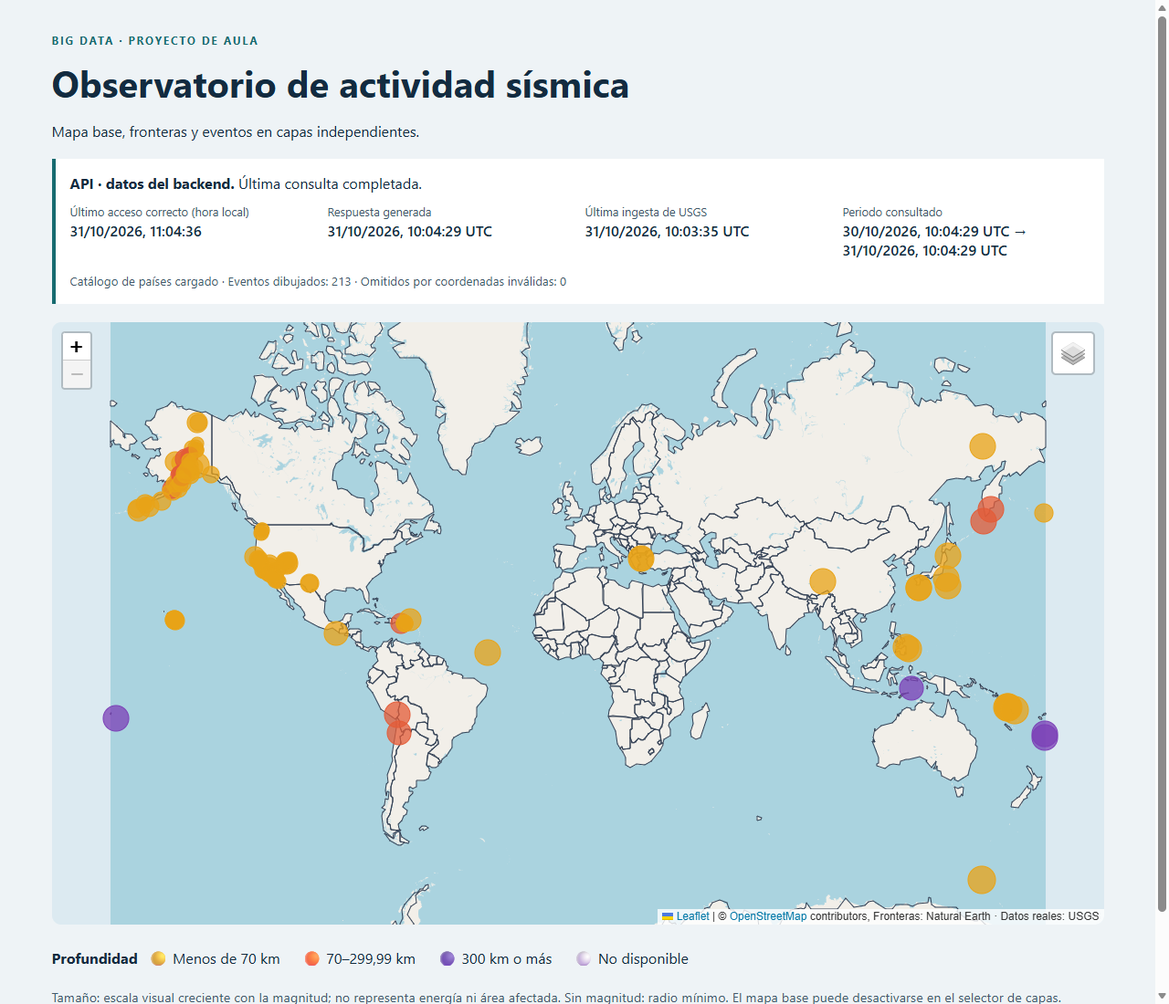
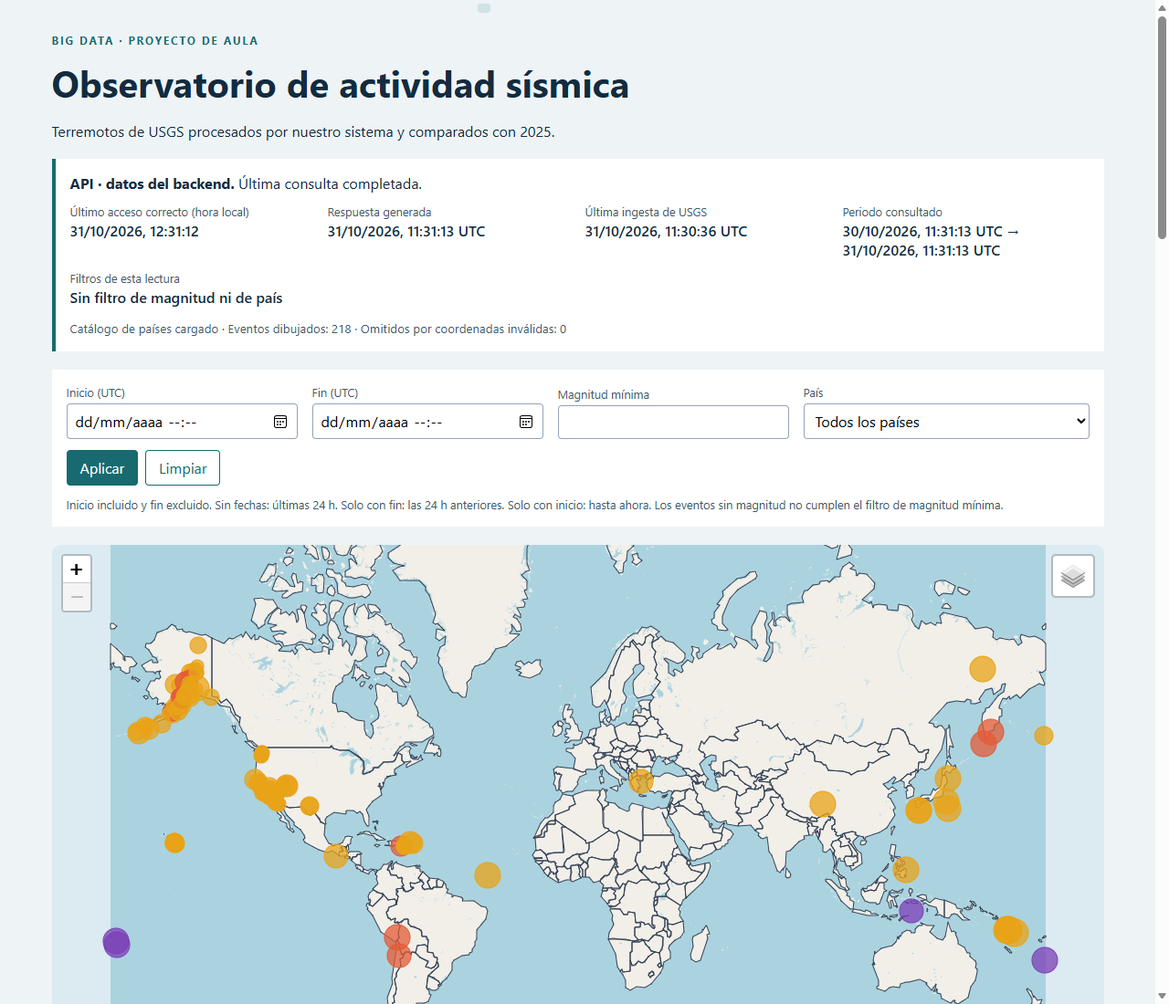
Fase 9, bloque 6: cobertura desde la API, revisión final y documentación

diff --git a/frontend/src/app/estadisticas/comparacion-historica.component.ts b/frontend/src/app/estadisticas/comparacion-historica.component.ts
@@ -5,9 +5,7 @@ import type { ComparacionHistorica, Periodo } from '../api.service';
 
 const INICIO_2025 = Date.UTC(2025, 0, 1);
 const FIN_2025 = Date.UTC(2026, 0, 1);
-const HORA_MS = 3_600_000;
-const MARGEN_FEED_MS = 25 * HORA_MS;                    // el feed cubre 24 h; +1 h para no avisar en la consulta por defecto
-const BASE_MINIMA = 1;                                  // criterio propio: esperar menos de 1 terremoto no da un % útil
+const BASE_MINIMA = 1;                                 // criterio propio: esperar menos de 1 terremoto no da un % útil
 
 // Número en español. ND si falta.
 const cifra = (valor: number | null, decimales = 0): string =>
@@ -38,8 +36,21 @@ export class ComparacionHistoricaComponent {
 
   // El periodo cae dentro de 2025: se compara con un año que ya lo contiene.
   readonly solapa2025 = computed(() => this.inicio() < FIN_2025 && this.fin() > INICIO_2025);
-  // Empieza antes de lo que cubre el feed: el recuento puede estar incompleto por falta de datos, no de terremotos.
-  readonly fueraDeCobertura = computed(() => !this.solapa2025() && this.inicio() < this.generated() - MARGEN_FEED_MS);
+  // Fecha desde la que hay datos del feed, según la API. null = aún no hay ninguna ingesta correcta.
+  private readonly cobertura = computed(() => {
+    const desde = this.datos().cobertura_feed_desde;
+    return desde === null ? null : new Date(desde).getTime();
+  });
+  // La API dice que el periodo no está cubierto y es porque empieza antes de los datos del feed
+  // (periodo_cubierto también es false si solo termina en el futuro: de eso se avisa aparte).
+  readonly fueraDeCobertura = computed(() => {
+    const desde = this.cobertura();
+    return !this.datos().periodo_cubierto && (desde === null || this.inicio() < desde);
+  });
+  readonly coberturaTexto = computed(() => {
+    const desde = this.cobertura();
+    return desde === null ? 'ND' : `${new Date(desde).toLocaleString('es-ES', { timeZone: 'UTC' })} UTC`;
+  });
   // Termina en el futuro: el esperado incluye días que aún no han ocurrido.
   readonly periodoFuturo = computed(() => this.fin() > this.generated());
   // Hay porcentaje, pero sobre una base tan pequeña que un solo terremoto lo cambia por completo.

diff --git a/frontend/src/app/app.component.html b/frontend/src/app/app.component.html
@@ -1,12 +1,12 @@
 <main>
-  <header><p class="eyebrow">BIG DATA · PROYECTO DE AULA</p><h1>Observatorio de actividad sísmica</h1><p>Mapa base, fronteras y eventos en capas independientes.</p></header>
+  <header><p class="eyebrow">BIG DATA · PROYECTO DE AULA</p><h1>Observatorio de actividad sísmica</h1><p>Terremotos de USGS procesados por nuestro sistema y comparados con 2025.</p></header>
   <app-estado-sistema [estado]="estado()" />
   <!-- Los filtros los resuelve la API, así que en modo demo no se muestran. -->
   @if (estado().modo === 'api') {
     <app-filtros [paises]="paises()" [aplicados]="filtros()" [cargando]="cargando()" (aplicar)="aplicarFiltros($event)" />
   }
   <div class="map" leaflet [leafletOptions]="options" (leafletMapReady)="onMapReady($event)" aria-label="Mapa interactivo de terremotos"></div>
-  <footer><strong>Profundidad</strong><span>🟡 Menos de 70 km</span><span>🟠 70–299,99 km</span><span>🟣 300 km o más</span><span>⚪ No disponible</span><p>Tamaño: escala visual creciente con la magnitud; no representa energía ni área afectada. Sin magnitud: radio mínimo. El mapa base puede desactivarse en el selector de capas.</p><p>Base proporcionada: añade filtros, gráficos, tabla accesible y conclusiones para completar el proyecto.</p></footer>
+  <footer><strong>Profundidad</strong><span>🟡 Menos de 70 km</span><span>🟠 70–299,99 km</span><span>🟣 300 km o más</span><span>⚪ No disponible</span><p>Tamaño: escala visual creciente con la magnitud; no representa energía ni área afectada. Sin magnitud: radio mínimo. El mapa base puede desactivarse en el selector de capas.</p></footer>
   <!-- Las estadísticas las calcula la API: el modo demo no las tiene. -->
   @if (estado().modo === 'api') {
     <app-estadisticas [datos]="estadisticas()" [antiguas]="estadisticasAntiguas()" [filtrosTexto]="filtrosEstadisticas()" [truncado]="estado().truncated" [cargando]="cargando()" />

diff --git a/frontend/src/app/filtros/filtros.component.css b/frontend/src/app/filtros/filtros.component.css
@@ -1,8 +1,9 @@
 /* Campos en fila, que bajan a la línea siguiente si no caben. */
 .filtros { display: flex; flex-wrap: wrap; gap: 12px 16px; align-items: flex-end; padding: 16px; background: white; margin: 0 0 20px; }
-.campo { display: flex; flex-direction: column; gap: 4px; flex: 1 1 170px; }
+/* min-width 0 y width 100 %: el desplegable se ajusta a la columna, no al nombre de país más largo. */
+.campo { display: flex; flex-direction: column; gap: 4px; flex: 1 1 170px; min-width: 0; }
 label { font-size: .8rem; color: #42596b; }
-input, select { padding: 7px 8px; border: 1px solid #94a3b8; border-radius: 4px; font: inherit; background: white; min-width: 0; }
+input, select { width: 100%; padding: 7px 8px; border: 1px solid #94a3b8; border-radius: 4px; font: inherit; background: white; min-width: 0; }
 
 .botones { display: flex; align-items: center; gap: 8px; }
 button { padding: 8px 14px; border: 1px solid #176b70; border-radius: 4px; background: #176b70; color: white; font: inherit; cursor: pointer; }

diff --git a/frontend/src/app/estadisticas/comparacion-historica.component.html b/frontend/src/app/estadisticas/comparacion-historica.component.html
@@ -6,7 +6,7 @@
     <p class="aviso"><strong>Periodo dentro de 2025:</strong> se compara con un año que ya lo incluye. Sirve para situar ese periodo en su año, no para comparar dos periodos distintos.</p>
   }
   @if (fueraDeCobertura()) {
-    <p class="aviso"><strong>Recuento posiblemente incompleto:</strong> el periodo empieza más de 24 h atrás. Solo hay datos desde que el sistema empezó a recoger el feed, así que la variación puede salir baja por falta de datos, no de terremotos.</p>
+    <p class="aviso"><strong>Recuento incompleto:</strong> solo hay datos del feed desde el {{ coberturaTexto() }} y el periodo empieza antes. La variación puede salir baja por falta de datos, no de terremotos.</p>
   }
   @if (periodoFuturo()) {
     <p class="aviso"><strong>El periodo termina en el futuro:</strong> el esperado cuenta días que aún no han ocurrido.</p>

diff --git a/frontend/src/app/estadisticas/estadisticas.component.css b/frontend/src/app/estadisticas/estadisticas.component.css
@@ -8,5 +8,5 @@ h2 { margin: 0 0 8px; font-size: 1.2rem; }
 .nota.grave { border-left-color: #b91c1c; background: #fee2e2; color: #7f1d1d; }
 
 /* Dos columnas que pasan a una en pantallas estrechas. */
-.rejilla { display: grid; grid-template-columns: repeat(auto-fit, minmax(440px, 1fr)); gap: 24px 32px; margin-top: 24px; }
+.rejilla { display: grid; grid-template-columns: repeat(auto-fit, minmax(min(440px, 100%), 1fr)); gap: 24px 32px; margin-top: 24px; }
 .ayuda { margin: 6px 0 0; font-size: .8rem; color: #42596b; }

diff --git a/frontend/src/app/api.service.ts b/frontend/src/app/api.service.ts
@@ -73,6 +73,8 @@ export type ComparacionHistorica = {
   esperado_en_periodo: number;          // media escalada a la duración del periodo
   diferencia: number;
   variacion_pct: number | null;         // null = no hay base: se muestra «ND»
+  cobertura_feed_desde: string | null;  // primera ingesta correcta menos 24 h; null si aún no hay ninguna
+  periodo_cubierto: boolean;            // false = el recuento del periodo puede estar incompleto
   dias_2025: {
     mediana: number | null;
     p10: number | null;

diff --git a/docs/memoria.md b/docs/memoria.md
@@ -205,6 +205,47 @@ Evidencia: `docs/evidencias/fase7-historico.txt`.
    (pendiente: volver a descargar el periodo del catálogo hacia el 03/11 para medirlo). No es una predicción ni una
    evaluación de riesgo. Evidencia: `docs/evidencias/fase8-comparacion-historica.txt`.
    → *Mejora aplicada:* `/api/estadisticas` devuelve ahora la mediana, el p10, el p90 y el % de días de 2025 con un recuento ≤ al reciente.
+
+## 7bis. Panel del observatorio (enunciado §8) 🟡
+
+Angular 20.3, ngx-leaflet y Leaflet 1.9.4, sobre el mapa del profesor y sin dependencias nuevas. El panel solo consume nuestra API.
+Evidencia: `docs/evidencias/fase9-panel.txt` y capturas `fase9-bloque*.png`.
+
+| Requisito | Dónde | Comprobación |
+|---|---|---|
+| Mapa, leyenda y nulos | `app.component` | Ficha de `demo-4`: «Magnitud: ND», «Sin país asignado» |
+| País, subregión y ventanas de 1 h UTC | `estadisticas/` | Las sumas coinciden con el total de la API (218); 2025: 8.760 ventanas, 18.302 eventos |
+| Distribuciones con registros sin valor | `estadisticas/` | Magnitud + nulos y profundidad + nulos = 218 |
+| Comparación histórica | `comparacion-historica` | Panel = API en 11 consultas reales; ND si `variacion_pct` es null |
+| Filtros a la vez en mapa, tabla y gráficos | `filtros/`, `api.service.ts` | Eventos y estadísticas con los mismos parámetros en cada ciclo |
+| Estado del sistema | `estado-sistema/` | Caída real de la API: aviso, última lectura marcada como antigua y recuperación sola |
+| Tabla accesible | `tabla-eventos/` | Igual a la API fila a fila; ordenable con teclado; `aria-sort` |
+| Lista truncada | `estado-sistema/`, `tabla-eventos/` | Todo 2025: «5000 de 18302»; las estadísticas se calculan sobre todos |
+| Refresco de 60 s sin solapes | `app.component` | Ciclos a +0, +60,1 y +120,1 s |
+
+**Cómo se evita un porcentaje engañoso.** El panel enseña siempre el porcentaje que calcula la API, acompañado de un aviso cuando no
+significa lo que parece (D39):
+
+| Situación | Ejemplo real | Aviso | Origen |
+|---|---|---|---|
+| El periodo empieza antes de los datos del feed | 24–31/10/2026: 19 frente a 351 (−94,6 %) | Recuento incompleto | `periodo_cubierto` y `cobertura_feed_desde` de la API |
+| El periodo termina en el futuro | Hasta el 30/12/2026: −99,2 % | Termina en el futuro | Comparado con `generated` |
+| El periodo cae dentro de 2025 | Todo 2025: 0 % | Periodo dentro de 2025 | Calculado en el panel |
+| Se espera menos de 1 terremoto | EE. UU., M≥4: 1 frente a 0,19 (+414,1 %) | Base muy pequeña | **Criterio nuestro:** `BASE_MINIMA = 1` |
+| Filtro por debajo de M≥4 | Total 218, comparación 24 | Explica la diferencia | El histórico solo tiene M≥4 (FAQ 23) |
+
+**Criterio propio `BASE_MINIMA = 1`:** si el recuento esperado en el periodo es menor que 1, un solo terremoto mueve el porcentaje cientos de
+puntos. El umbral no viene del enunciado ni de una regla estadística: lo hemos fijado nosotros porque, por debajo de 1 terremoto esperado, la
+diferencia se entiende mejor en cifras absolutas. Solo añade un aviso; no cambia ningún cálculo. Está en
+`frontend/src/app/estadisticas/comparacion-historica.component.ts`.
+
+**Limitaciones:**
+- `cobertura_feed_desde` no detecta huecos por paradas de más de 24 h (D32).
+- El mapa y la tabla reciben como mucho 5.000 eventos, los más recientes; ordenar la tabla no alcanza a los que quedan fuera.
+- Eventos y estadísticas son dos peticiones: si entra una ingesta entre ambas, sus totales pueden diferir en algún evento hasta el siguiente refresco.
+- Comprobado en Edge a 1280, 390 y 320 px. No se ha probado con un lector de pantalla real.
+- Las pruebas de ingesta parada, lista truncada y eventos sin magnitud son simuladas en el navegador: en la base real no hay eventos sin magnitud.
+
 ## 8. Complejidad, mediciones, costes y mejoras ⬜
 
 *Datos ya recogidos:*
@@ -219,11 +260,11 @@ Evidencia: `docs/evidencias/fase7-historico.txt`.
 | Reenviar la misma versión | No aumenta el número | `ignorado: version_repetida`; sigue 1 fila | ídem |
 | Recibir una versión posterior | Cambian los datos actuales | `actualizado`; mag 4,2 → 4,6 | ídem |
 | Recibir después una versión antigua | No sustituye a la más reciente | `ignorado`; mag sigue en 4,6 | ídem |
-| Magnitud nula | Se conserva y se muestra ND | Guardada con `mag` NULL (panel: pendiente) | ídem |
+| Magnitud nula | Se conserva y se muestra ND | Guardada con `mag` NULL; panel: «ND» en ficha y tabla, al final al ordenar | ídem; `fase9-panel.txt` |
 | Coordenadas inválidas | Cuarentena y motivo | `lat_fuera_de_rango`, offset 4 | ídem |
-| Evento marítimo | Sin país; permanece | ⬜ Fase 6 | |
+| Evento marítimo | Sin país; permanece | Eventos reales como «Fiji region» se guardan sin país y el panel los muestra como «Sin país asignado» (47 de 218) | `fase9-bloque4-estadisticas.png`; `fase9-panel.txt` |
 | Reiniciar consumidor | Reanuda sin duplicar | ⬜ | |
-| Cerrar / reabrir el túnel | Aviso y recuperación | ⬜ Fase 10 | |
+| Cerrar / reabrir el túnel | Aviso y recuperación | ⬜ Fase 10 (ya comprobado parando el contenedor de la API, sin túnel) | `fase9-panel.txt` |
 | Reproducción histórica | Por Kafka, aislada | ⬜ Fase 11 | |
 
 Los casos son **sintéticos** (`PRUEBA-*`, `source = 'prueba-faq12'`), separados de los datos reales (enunciado §6).
@@ -267,6 +308,16 @@ Los casos son **sintéticos** (`PRUEBA-*`, `source = 'prueba-faq12'`), separados
 | D30 | Comparación con `mag >= 4` en los dos periodos | `mag > 4` | Es lo que hace realmente `minmagnitude=4` (incluye 4,0) | Muestra de enero |
 | D31 | Con `min_mag`, contar aparte los eventos sin magnitud (`magnitud_excluidos_por_filtro`) | Esconderlos | El contrato exige contabilizarlos por separado; detectado en la revisión del bloque 4 del panel | Contrato API |
 | D32 | La API devuelve `cobertura_feed_desde` (primera ingesta correcta − 24 h) y `periodo_cubierto` | Que el panel adivine la cobertura | Avisar con exactitud cuando un periodo no está cubierto por datos y el recuento puede ser incompleto. Limitación: no detecta huecos por paradas > 24 h (recuperables con el catálogo, `updatedafter`) | Enunciado §5 y §8.4 |
+| D33 | Lista de países fija: catálogo (`ADM0_A3`, `NAME_ES`, 177) + «Sin país asignado» | `por_pais`, como decía el encargo | Decisión de Daniel: se puede elegir cualquier país aunque no tenga eventos, y la lista no cambia con los filtros. Catálogo y tabla `pais` coinciden (177 códigos, mismos nombres) | `docs/evidencias/fase9-panel.txt` |
+| D34 | `fetch` y campos HTML normales | `HttpClient` y `@angular/forms` | `@angular/forms` no está en el `package.json` del profesor; `fetch` ya estaba en su código y no hace falta añadir nada | `docs/fase9-encargo-panel.md` |
+| D35 | Gráficos sin librería: barras en tablas HTML y columnas en un solo trazado SVG | Una librería de gráficos | El encargo pide evitar dependencias. La tabla es además su alternativa accesible, y un trazado aguanta las 8.760 ventanas de un año | Encargo; enunciado §8 |
+| D36 | Mapa y tabla comparten la misma respuesta; las estadísticas vienen siempre de la API | Calcular estadísticas en el navegador | Con la lista truncada a 5.000, calcularlas en el navegador sería falso | Encargo, punto 8; contrato API |
+| D37 | Si los filtros cambian durante una consulta: se descarta su resultado y se repite al terminar | Cancelar la petición; lanzar otra a la vez | Una sola función de refresco, sin solapes, y siempre gana el último filtro | Encargo, punto 9 |
+| D38 | Rellenar los tramos de magnitud con 0 y mostrar siempre las 4 clases de profundidad | Dibujar solo lo que envía la API | Un tramo vacío también es un dato; ocultarlo deformaría la distribución | Enunciado §8 |
+| D39 | Mostrar el porcentaje de la API con un aviso cuando engaña | Sustituirlo por ND | Decisión de Daniel: el panel no oculta el cálculo y explica cómo leerlo; ND queda para cuando `variacion_pct` es null | Encargo, punto 4; memoria §7bis |
+| D40 | `BASE_MINIMA = 1`: aviso si se espera menos de 1 terremoto | Sin aviso; otro umbral | **Criterio propio**, no viene del enunciado. Solo añade un aviso | Memoria §7bis |
+| D41 | Tabla paginada de 50 filas | Pintar hasta 5.000 filas | Mantener ágil el navegador; el orden se aplica a toda la lista recibida antes de paginar | Encargo, punto 7 |
+| D42 | Ventanas de 1 h parciales en tono claro y con nota | Dibujarlas igual que las completas | Una ventana cubierta a medias tiene menos eventos sin que haya menos actividad | Enunciado §8 |
 
 ### Evidencia del problema de duplicados (Fase 3)
 Al enviar dos veces el mismo evento (`us7000ttlm`, mismo `updated`), Kafka lo almacenó en los offsets 0 y 1

diff --git a/docs/bitacora.md b/docs/bitacora.md
@@ -5,6 +5,60 @@ Formato: qué se hizo · decisiones · problemas y solución · commits · dudas
 
 ---
 
+## Sesión 4 · Sábado 31/10/2026
+
+### Qué se hizo
+- **Fase 9 · panel Angular** con Claude Code, en 6 bloques. El mapa del profesor se conserva y se amplía; sin dependencias nuevas.
+  1. **Conexión y estado:** `config.json` en modo `api`; `api.service.ts` es el único archivo que habla con la API; componente
+     `estado-sistema/`. Si la API falla: aviso rojo, se conserva la última lectura y se marca como antigua.
+  2. **Filtros:** fecha UTC, magnitud y país (`filtros/`), con validación. Si cambian durante una consulta, esta se repite al
+     terminar, sin peticiones solapadas. «Filtros de esta lectura» sale de la respuesta, no del formulario.
+  3. **Tabla:** `tabla-eventos/`, ordenable y paginada (50 filas), con los mismos datos que el mapa.
+  4. **Estadísticas:** `estadisticas/`, ventanas de 1 h UTC (SVG), país, subregión, magnitud y profundidad (tablas HTML con barras).
+  5. **Comparación con 2025:** recuento, esperado, variación, mediana, P10–P90, % de días y nota de la API.
+  6. **Revisión final:** repetidas las pruebas sobre el código final, build de producción, CORS real, móvil y fichas.
+- **Cambios de Daniel en la API:** `sin_valor.magnitud_excluidos_por_filtro` (D31), `cobertura_feed_desde` y `periodo_cubierto` (D32).
+- Decisión de Daniel: lista de países fija desde el catálogo (177 + «Sin país asignado»), no `por_pais` como decía el encargo (D33).
+  Antes de cambiarla se comprobó que el catálogo y la tabla `pais` coinciden: 177 códigos y los mismos nombres.
+- Decisión de Daniel: el porcentaje se muestra con aviso (D39) y el umbral `BASE_MINIMA = 1` queda como criterio nuestro (D40).
+- Evidencia: `docs/evidencias/fase9-panel.txt` y capturas `fase9-bloque*.png`.
+
+### Resultados
+- Últimas 24 h (31/10, ~11:30 UTC): **24 frente a 50,14 con M≥4 (−52,1 %)**; el 1,4 % de los días de 2025 tuvo 24 o menos. Mediana 43, P10–P90 31–69.
+- Sumas por país, subregión, magnitud, profundidad y hora = total de la API (218). Todo 2025: 8.760 ventanas, 18.302 eventos, ~0,66 s.
+- Caída real de la API: aviso, datos conservados y recuperación sola sin recargar.
+
+### Problemas y solución
+- **Lista de países que encogía:** `por_pais` con `country_id=USA` devuelve 1 fila. Primero se pidió sin ese filtro; después Daniel
+  decidió usar el catálogo, porque tampoco se podía elegir un país sin eventos en el periodo aplicado.
+- **Fechas invertidas:** la API responde 200 con 0 eventos; parecería que no hubo terremotos → el panel valida antes de enviar.
+- **Tramos de magnitud vacíos:** la API no envía los tramos con 0, y dibujar solo lo recibido escondía el hueco 3,5–4,0 → se rellenan.
+- **Porcentajes engañosos:** semana 24–31/10 = −94,6 % solo porque no había datos antes del 30/10. Primero se avisó con un apaño de
+  25 h; Daniel añadió la cobertura a la API y el panel usa ahora esos campos. Se añadieron también los avisos de periodo dentro de 2025,
+  fin en el futuro y base muy pequeña.
+- **`periodo_cubierto = false` tiene dos causas** (empieza antes de los datos o termina en el futuro): el panel las separa con `cobertura_feed_desde`.
+- **Errores de Claude encontrados al probar:** barras estrechas (`table-layout: fixed` tomaba el ancho de encabezados ocultos, y además la
+  rejilla salía a 3 columnas); fecha equivocada en el aviso de estadísticas antiguas; texto «0 no coincide con el total de 0»; el desplegable
+  de país ensanchaba la página a 353 px en pantallas de 320 px. Corregidos.
+- **Falsos positivos de los guiones de prueba** (el panel estaba bien): EE. UU. no se podía elegir porque el escenario previo lo dejaba fuera
+  de la lista entonces vigente; «Limpiar» parecía hacer 4 peticiones porque el guion mezclaba las del escenario siguiente.
+
+### Observaciones
+- **Desfase de reloj:** Docker va unos 6,8 s por detrás de Windows. No afecta a los avisos, porque la antigüedad se calcula solo en el servidor.
+- **Consultas cada ~55 s, sigue sin explicar:** en una prueba de 2 min el reloj de la API avanzó al ritmo del navegador, así que su hora no
+  parece la causa; las ingestas siguieron saliendo a ~55 s (109 s en dos ciclos). No se ha investigado más.
+- Aviso de compilación de `leaflet` («not ESM»): viene de la base del profesor y no se oculta, para no tocar `angular.json`.
+- Subregiones en inglés: es como vienen del catálogo; no se traducen.
+
+### Commits
+- `656791c` Bloque 1 · `ef2ab80` y `f695320` Bloque 2 · `b0f81c0` Bloque 3 · `087aa53` Bloque 4 · `a16ce1b` Bloque 5. Bloque 6 pendiente de commit de Daniel.
+
+### Siguiente paso
+1. ~03/11: volver a descargar del catálogo las 24 h del 30/10 09:28 → 31/10 09:28 UTC y compararlas con el feed.
+2. Fase 10: cuentas de ngrok y Netlify, túnel, `apiUrl` HTTPS en `config.json`, origen de Netlify en `CORS_ORIGINS` y prueba desde otro dispositivo.
+
+---
+
 ## Sesión 3 · Sábado 31/10/2026
 
 ### Qué se hizo

diff --git a/docs/defensa.md b/docs/defensa.md
@@ -117,3 +117,12 @@
 | Si filtras M≥4, ¿qué pasa con los terremotos que no tienen magnitud? | No cumplen el filtro (desconocido no es ≥4), pero no se esconden: la API los cuenta aparte con el mismo periodo y país (`sin_valor.magnitud_excluidos_por_filtro`) y el panel lo dice. Lo exige el contrato de la API. Lo detectó Claude Code en el bloque 4 y se corrigió en la API. | `api.py`; contrato API |
 | Comparas «la última semana» y sale −94 %. ¿Ha bajado la actividad? | No: el sistema solo tiene datos del feed desde su primera descarga (menos 24 h). La API lo indica (`periodo_cubierto: false`, `cobertura_feed_desde`) y el panel avisa de que el recuento puede estar incompleto. Un porcentaje sin cobertura no es un hallazgo. | `api.py`; memoria D32 |
 | ¿Y si el sistema estuvo apagado 3 días? | Habría un hueco que `cobertura_feed_desde` no detecta (limitación documentada). Se recuperaría descargando ese intervalo del catálogo FDSN (por ejemplo con `updatedafter` o `starttime`/`endtime`) y publicándolo por Kafka como el histórico; el consumidor, al ser idempotente, no duplicaría nada. | Enunciado §5 |
+| ¿Por qué se ve un 414 % de aumento en EE. UU. con un solo terremoto? | Porque se esperaban 0,19: con una base tan pequeña, un terremoto mueve el porcentaje cientos de puntos. El panel lo avisa («Base muy pequeña») si se espera menos de 1 terremoto. Ese umbral, `BASE_MINIMA = 1`, es un **criterio nuestro**, no del enunciado; solo añade un aviso y no cambia ningún cálculo. | Memoria §7bis, D40 |
+| ¿Por qué mostráis el porcentaje aunque sepáis que engaña? | Porque preferimos no ocultar el cálculo de la API y explicar cómo leerlo. Ocultarlo o cambiarlo por ND haría parecer que no hay dato. ND se reserva para cuando no se puede calcular (`variacion_pct` null). | Memoria D39 |
+| ¿Qué significa `periodo_cubierto: false`? | Que el recuento puede estar incompleto. Tiene dos causas: el periodo empieza antes de los datos del feed o termina en el futuro. El panel usa además `cobertura_feed_desde` para distinguirlas y dar el aviso correcto; en un periodo que cruza de 2025 a 2026 salen dos avisos. | `comparacion-historica.component.ts`; `fase9-panel.txt` |
+| ¿Por qué aparece un tramo de magnitud 3,5–4,0 con 0 si la API no lo envía? | Porque la API solo envía los tramos con eventos, y dibujar solo esos escondería el hueco. Un 0 también es un dato, así que el panel rellena los tramos intermedios. | `estadisticas.component.ts`; D38 |
+| ¿Qué es una ventana parcial? | Una ventana de 1 h que el periodo no cubre entera (normalmente la primera y la última). Sale en tono claro para que no parezca que hubo menos actividad. Si eliges horas exactas, no aparece ninguna. | `grafico-horas.component.ts`; D42 |
+| ¿Cómo evitas peticiones solapadas? | El siguiente refresco se programa cuando termina el anterior, no con un intervalo fijo. Si cambias filtros durante una consulta, esta no se pinta y se repite al acabar con los filtros nuevos. Probado con tres cambios seguidos: nunca hubo dos ciclos a la vez y ganó el último. | `app.component.ts`; D37 |
+| ¿Por qué no usas una librería de gráficos? | El encargo pide evitar dependencias si es razonable. Las barras son tablas HTML, así que el gráfico es a la vez su alternativa accesible. Las horas son un solo trazado SVG, porque un elemento por barra pesaría demasiado con 8.760 ventanas. | D35 |
+| ¿Por qué `Promise.allSettled` y no `Promise.all`? | `Promise.all` falla entero si falla una llamada. Con `allSettled` espero a todas y sé cuál ha fallado: si solo caen las estadísticas, el mapa y la tabla se actualizan igual y el panel marca las estadísticas como antiguas. | `app.component.ts` |
+| ¿Cómo sabes que el panel funciona, además de compilar? | Lo probé en un navegador real comparando cada resultado con la API, paré de verdad el contenedor de la API para ver el aviso y la recuperación, y probé también el build de producción. Las situaciones difíciles de provocar se simularon, y en la memoria consta cuáles. | `fase9-panel.txt`; memoria §7bis |

diff --git a/docs/roadmap.md b/docs/roadmap.md
@@ -71,9 +71,10 @@ Leyenda: `[ ]` pendiente · `[~]` en curso · `[x]` hecho · ⚑ = hacer commit 
 ## Semana 3 · 11/11 – 18/11 · Panel, pruebas y memoria
 
 ### Fase 9 · Panel Angular  *(FAQ pasos 8–9)*
-- [ ] Conectar a la API (modo `api`)
-- [ ] Filtros (fecha, magnitud, país), tabla, gráficos, comparación histórica
-- [ ] Estado del sistema (última ingesta, avisos) ⚑
+- [x] Conectar a la API (modo `api`, `frontend/src/app/api.service.ts`)
+- [x] Filtros (fecha, magnitud, país), tabla, gráficos, comparación histórica
+- [x] Estado del sistema (última ingesta, avisos) ⚑
+- [x] Revisión final: pruebas repetidas, build de producción, CORS, móvil y modo demo (`docs/evidencias/fase9-panel.txt`)
 
 ### Fase 10 · Despliegue  *(FAQ paso 10)*
 - [ ] Cuentas ngrok y Netlify
